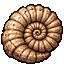
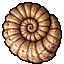
Puiutu: Shelly's fossils sit on the plank; ammonite and shark tooth lie on their side

diff --git a/life_of_puiutu_game.html b/life_of_puiutu_game.html
@@ -12623,7 +12623,7 @@ const BEACH_NOTES=[
   ['Shelly — the skull is real. I buried it again where the whale lies. Do not tell the crown. — an old digger','Shelly — craniul e adevărat. L-am îngropat la loc unde zace balena. Nu spune coroanei. — un săpător bătrân'],
 ];
 function fossilName(f){ return LT(f.name[0],f.name[1]); }
-function fossilArt(id){ return 'ui/forge/px/fossil_'+id+'.png?v=2'; }
+function fossilArt(id){ return 'ui/forge/px/fossil_'+id+'.png?v=3'; }
 function beachArt(id){ return 'ui/forge/px/beach_'+id+'.png?v=2'; }
 function weightedPick(list,wf){ const tot=list.reduce((a,x)=>a+wf(x),0); let r=Math.random()*tot; for(const x of list){ r-=wf(x); if(r<=0) return x; } return list[list.length-1]; }
 // what the tide turns up: the rarer pieces are weighted up so a patient beachcomber does see them
@@ -12647,7 +12647,7 @@ let museumTab='shelf', museumSel=null;
 // where things lie in Shelly's spot (% of the painting; y = where the item touches down) — the
 // plank first, then the sand in front of it
 const MUSEUM_SPOTS=[
-  {x:31,y:87,w:7},{x:40.5,y:87,w:7},{x:50,y:87,w:7},{x:59.5,y:87,w:7},{x:69,y:87,w:7},   // along the plank
+  {x:33,y:89,w:7},{x:42.5,y:89,w:7},{x:52,y:89,w:7},{x:61.5,y:89,w:7},{x:71,y:89,w:7},   // on the plank: its top runs y 81-90%, x 29-80%
   {x:19,y:92,w:7},{x:73,y:74,w:6},{x:87,y:94,w:7},                                           // on the sand: left, right of Shelly, by the water
   {x:84,y:75,w:6},
 ];
@@ -14342,7 +14342,7 @@ function forgeWares(){
 // little smaller. NomNom herself sits on the plank.
 // per picture: how far it reaches below the row it rests on, and how much bigger than the rest it is
 // drawn — written by gen_forge_px.py
-const FORGE_PX_SINK=/*PXMETA*/{"broth":{"sink":0.0312,"size":1},"tonic":{"sink":0.0469,"size":1},"moonmilk":{"sink":0.0469,"size":1},"fury":{"sink":0.0156,"size":1},"ironfur":{"sink":0.0156,"size":1},"lucky":{"sink":0.0,"size":1},"phoenix":{"sink":0.1562,"size":1},"forge_claws":{"sink":0.0938,"size":1},"forge_collar":{"sink":0.1875,"size":1},"forge_bell":{"sink":0.0469,"size":1},"charm_carrot":{"sink":0.0469,"size":1},"charm_bell":{"sink":0.125,"size":1},"charm_mouse":{"sink":0.0625,"size":1},"charm_heart":{"sink":0.049,"size":1.6},"charm_goldbanana":{"sink":0.0469,"size":1},"fossil_ammonite":{"sink":0.0625,"size":1},"fossil_sharktooth":{"sink":0.1406,"size":1},"fossil_fishbones":{"sink":0.125,"size":1},"fossil_crabclaw":{"sink":0.0156,"size":1},"fossil_trilobite":{"sink":0.0625,"size":1},"fossil_whalerib":{"sink":0.0156,"size":1},"fossil_serpent":{"sink":0.125,"size":1},"fossil_catskull":{"sink":0.1094,"size":1},"beach_conch":{"sink":0.0469,"size":1},"beach_scallop":{"sink":0.0156,"size":1},"beach_snail":{"sink":0.0625,"size":1},"beach_starfish":{"sink":0.0156,"size":1},"beach_pearl":{"sink":0.0625,"size":1},"beach_crab":{"sink":0.0312,"size":1},"beach_bottle":{"sink":0.0625,"size":1},"mixedherb":{"sink":0.1094,"size":1},"goldegg":{"sink":0.0469,"size":1},"merch_yellowherb":{"sink":0.0469,"size":1},"merch_blueherb":{"sink":0.0469,"size":1},"merch_case":{"sink":0.0625,"size":1},"charm_keychain":{"sink":0.0312,"size":1}}/*PXMETA*/;
+const FORGE_PX_SINK=/*PXMETA*/{"broth":{"sink":0.0312,"size":1},"tonic":{"sink":0.0469,"size":1},"moonmilk":{"sink":0.0469,"size":1},"fury":{"sink":0.0156,"size":1},"ironfur":{"sink":0.0156,"size":1},"lucky":{"sink":0.0,"size":1},"phoenix":{"sink":0.1562,"size":1},"forge_claws":{"sink":0.0938,"size":1},"forge_collar":{"sink":0.1875,"size":1},"forge_bell":{"sink":0.0469,"size":1},"charm_carrot":{"sink":0.0469,"size":1},"charm_bell":{"sink":0.125,"size":1},"charm_mouse":{"sink":0.0625,"size":1},"charm_heart":{"sink":0.049,"size":1.6},"charm_goldbanana":{"sink":0.0469,"size":1},"fossil_ammonite":{"sink":0.0625,"size":1},"fossil_sharktooth":{"sink":0.0469,"size":1},"fossil_fishbones":{"sink":0.125,"size":1},"fossil_crabclaw":{"sink":0.0156,"size":1},"fossil_trilobite":{"sink":0.0625,"size":1},"fossil_whalerib":{"sink":0.0156,"size":1},"fossil_serpent":{"sink":0.125,"size":1},"fossil_catskull":{"sink":0.1094,"size":1},"beach_conch":{"sink":0.0469,"size":1},"beach_scallop":{"sink":0.0156,"size":1},"beach_snail":{"sink":0.0625,"size":1},"beach_starfish":{"sink":0.0156,"size":1},"beach_pearl":{"sink":0.0625,"size":1},"beach_crab":{"sink":0.0312,"size":1},"beach_bottle":{"sink":0.0625,"size":1},"mixedherb":{"sink":0.1094,"size":1},"goldegg":{"sink":0.0469,"size":1},"merch_yellowherb":{"sink":0.0469,"size":1},"merch_blueherb":{"sink":0.0469,"size":1},"merch_case":{"sink":0.0625,"size":1},"charm_keychain":{"sink":0.0312,"size":1}}/*PXMETA*/;
 // a few things need to come further forward to lie fully on the cloth (the necklace's loop is tall)
 const FORGE_DROP={ charm_heart:5 };
 const BLANKET={ back:{y:80.5, x0:19, x1:56, w:7.4}, front:{y:91.5, x0:16, x1:60, w:8.6} };

diff --git a/gen_forge_px.py b/gen_forge_px.py
@@ -32,6 +32,8 @@ def lie_flat(im):
 # items drawn bigger than the rest (lying-flat things that would otherwise shrink to a speck). Their
 # grid grows by the same factor, so their pixels stay the same size on screen as everyone else's.
 SIZE={'charm_heart':1.6}
+# turned so they lie naturally on a shelf (degrees, counter-clockwise)
+ROT={'fossil_ammonite':90,'fossil_sharktooth':90}
 os.makedirs('ui/forge/px',exist_ok=True)
 META={}
 def ground_sink(tile):
@@ -48,6 +50,7 @@ def ground_sink(tile):
 for key,src in SRC.items():
     if not os.path.exists(src): print('missing',src); continue
     im=trim(Image.open(src).convert('RGBA'))
+    if key in ROT: im=trim(im.rotate(ROT[key],resample=Image.NEAREST,expand=True))
     if key=='charm_carrot':
         im=trim(lie_flat(im))
         if np.array(im)[:, :im.width//3, 3].sum() < np.array(im)[:, -im.width//3:, 3].sum(): pass
